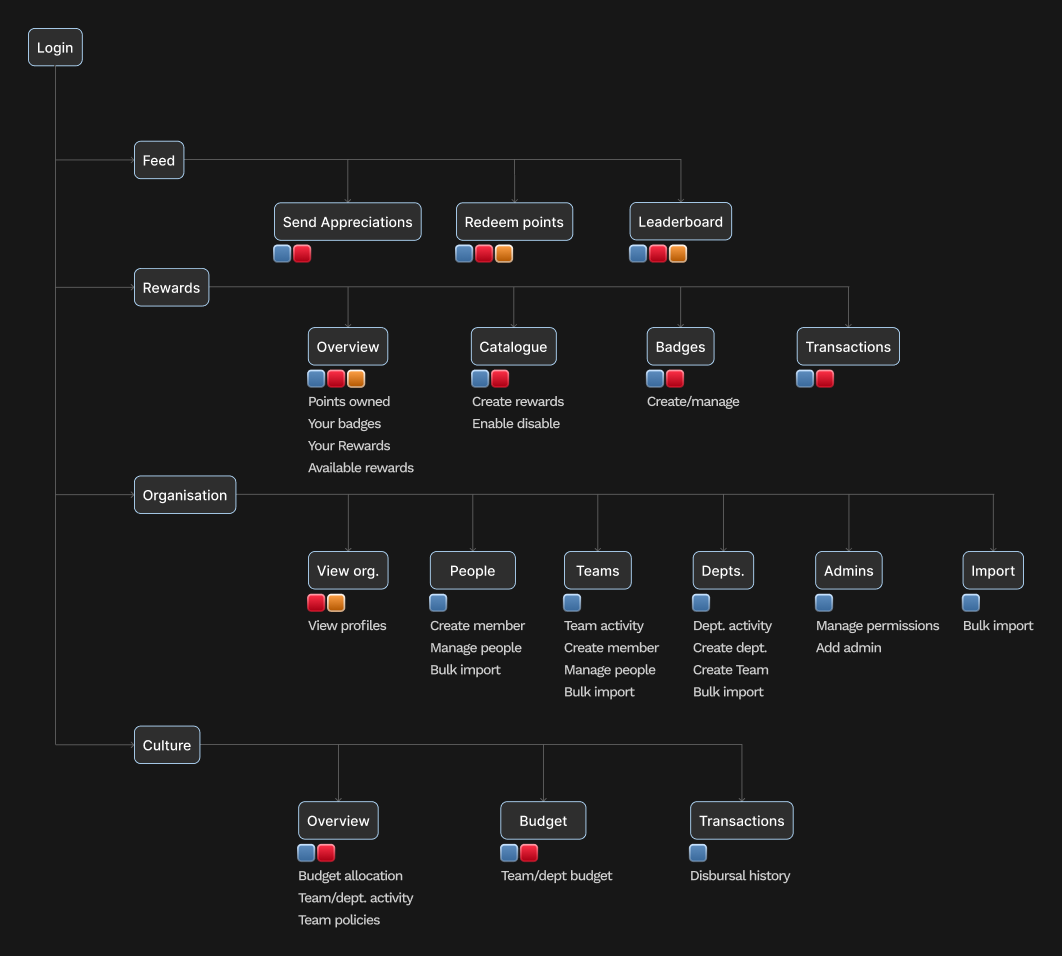
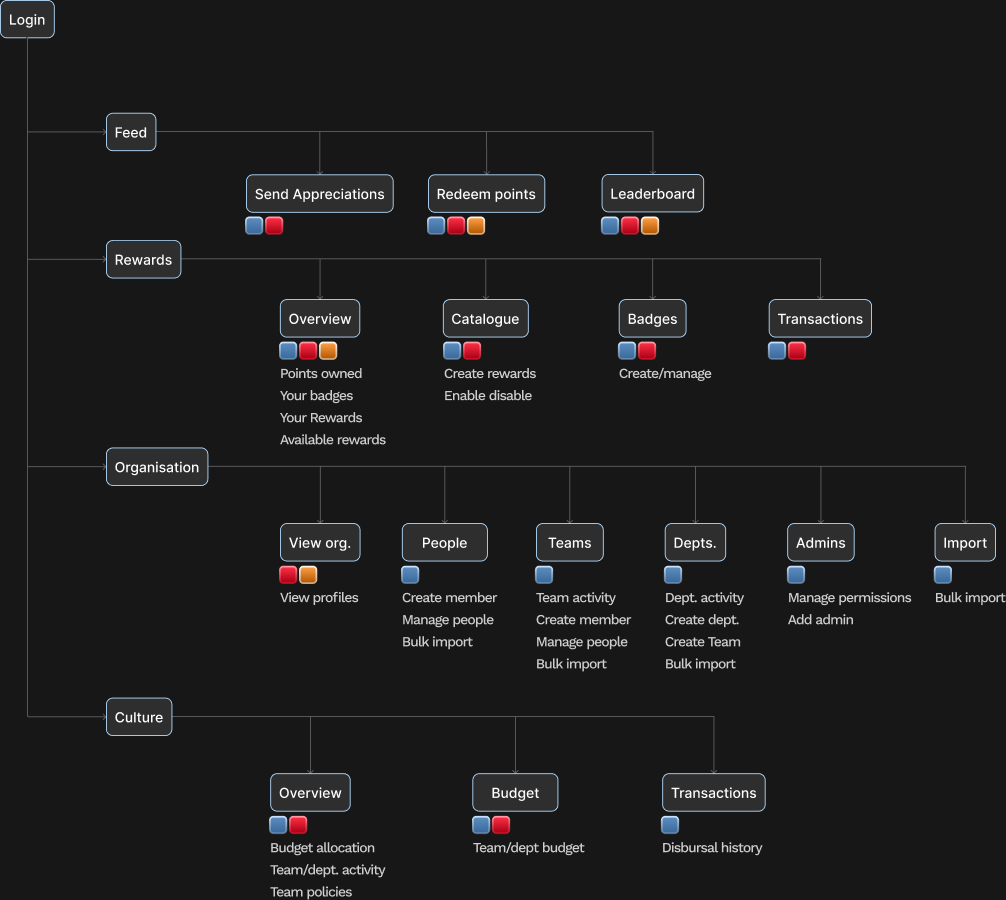
Give every picture the same frame, and stand the cast in a row
Padding is the page's job, not the picture's. Each crop carried 28 pixels of
the slide's own ground, which lands as 14 on one image and 19 on another
because they scale by different amounts to fit one column — so the gap around
every screen was slightly different and none of it agreed with the space
around anything else.

So the crops are tight now, and the breathing room is painted here: a frame
filled with the colour of the slide the picture came from, padded 24px, one
step down from the page's own gutter. Nineteen frames, one padding, and every
image starts and ends exactly where the text does. Nothing bleeds any more —
the cover and the two diagrams were running past the text edge while
everything else lined up, which is the kind of near-miss that reads as a
mistake rather than as emphasis.

The frame earns its keep twice more: inside an iteration it is painted the
same colour as the band, so a rejected screen belongs to the band instead of
sitting on top of it; and the cover and the closing card can each name their
own ground, since the deck used a different one for both.

The cast is four across. Photographs of television actors carry nothing about
the role, which is exactly why the card can afford to be narrow — the picture
only says these are four different people, and the pill and the sentence do
the work. Two by two from 820px of column and one at a time below 620, with
the copy shortened to suit a card a quarter of the width.

diff --git a/components/case/IncentiwiseStory.tsx b/components/case/IncentiwiseStory.tsx
@@ -20,10 +20,14 @@ import { Settle } from '@/components/Settle'
  * cut out of one. The deck offsets, stacks and overlaps deliberately — the
  * login panel with its two reset states down the right, the three appreciation
  * cards running off both edges — and cropping each rectangle out separately
- * would throw that away. So each crop is bounded by everything on the slide
- * that is not the ground, plus an even margin of the ground itself. That is
- * also why these images sit seamlessly inside the iteration bands: the band is
- * painted the same colour the slide used.
+ * would throw that away.
+ *
+ * The crops are tight, and the breathing room around each one is painted here
+ * instead, on a frame filled with the colour that slide used. Padding is the
+ * page's job: a margin baked into the picture lands at a different size on
+ * every image, because they scale by different amounts to fit one column,
+ * whereas a frame gives them all the identical gap in the same unit as the
+ * space around everything else.
  *
  * The writing is new throughout. Only the pictures are the deck's.
  */
@@ -156,25 +160,42 @@ function Iteration({
 
 const SRC = (name: string) => `/images/incentiwise/story/${name}.png`
 
-function Shot({ src, alt, cap }: { src: string; alt: string; cap?: string }) {
+/**
+ * A screen on its frame. `ground` names the slide's own background where it
+ * is not the usual near-black, so the frame and the picture stay one material.
+ */
+function Shot({
+  src,
+  alt,
+  cap,
+  ground,
+}: {
+  src: string
+  alt: string
+  cap?: string
+  ground?: string
+}) {
   return (
     <figure className="shot">
-      <img src={SRC(src)} alt={alt} loading="lazy" />
+      <div className="frame" style={ground ? ({ '--ground': ground } as React.CSSProperties) : undefined}>
+        <img src={SRC(src)} alt={alt} loading="lazy" />
+      </div>
       {cap && <figcaption className="cap">{cap}</figcaption>}
     </figure>
   )
 }
 
 /**
- * A diagram taken whole from the deck, at the full width of the column. Even
- * there it cannot show eleven features across three roles at the size it was
- * drawn, so it carries a link to the file — the one honest answer to a picture
- * of type that has been scaled past reading.
+ * A diagram from the deck. Even across the whole column it cannot show eleven
+ * features by three roles at the size it was drawn, so it carries a link to
+ * the file — the one honest answer to a picture of type scaled past reading.
  */
 function Diagram({ src, alt, cap }: { src: string; alt: string; cap: string }) {
   return (
-    <figure className="shot shot-wide">
-      <img src={SRC(src)} alt={alt} loading="lazy" />
+    <figure className="shot">
+      <div className="frame">
+        <img src={SRC(src)} alt={alt} loading="lazy" />
+      </div>
       <figcaption className="cap">
         {cap}{' '}
         <a href={SRC(src)} target="_blank" rel="noreferrer" className="full">
@@ -205,12 +226,11 @@ export function IncentiwiseStory() {
       </Beat>
 
       <Settle mass="medium">
-        <figure className="cover">
-          <img
-            src={SRC('cover')}
-            alt="The Incentiwise feed, organisation and badges screens, shown in perspective"
-          />
-        </figure>
+        <Shot
+          src="cover"
+          ground="#0b1a24"
+          alt="The Incentiwise feed, organisation and badges screens, shown in perspective"
+        />
       </Settle>
 
       {/* ── Who is on it ───────────────────────────────────────────── */}
@@ -222,24 +242,22 @@ export function IncentiwiseStory() {
             <img src={SRC('p-admin')} alt="" className="face" loading="lazy" />
             <Pill role="admin" />
             <p>
-              Owns the programme. Funds the pool, builds the badges, brings people in, and signs off
-              what the leads ask for.
+              Owns the programme. Funds the pool, builds the badges, and signs off what the leads
+              ask for.
             </p>
           </div>
           <div className="who-card">
             <img src={SRC('p-dept')} alt="" className="face" loading="lazy" />
             <Pill role="lead">Dept. head</Pill>
             <p>
-              Approves budget requests coming up from the leads, and answers for the culture of
-              everything underneath.
+              Approves what the leads ask for, and answers for the culture underneath.
             </p>
           </div>
           <div className="who-card">
             <img src={SRC('p-lead')} alt="" className="face" loading="lazy" />
             <Pill role="lead">Team lead</Pill>
             <p>
-              Recognises their own team against a quarterly budget, and asks for more when it runs
-              dry.
+              Recognises their own team against a quarterly budget. Asks for more when it runs dry.
             </p>
           </div>
           <div className="who-card">
@@ -460,6 +478,7 @@ export function IncentiwiseStory() {
         <p className="say say-mid">One more, using the product itself.</p>
         <Shot
           src="thanks"
+          ground="#222831"
           alt="An appreciation card addressed to Recruiters, tagged patient and supportive, reading thank you for this opportunity, worth one million points"
         />
       </Beat>

diff --git a/app/globals.css b/app/globals.css
@@ -2886,28 +2886,18 @@ html.has-custom-cursor .cursor-zoom-out { cursor: zoom-out; }
 .cs .pil-lead { background: var(--lead); }
 .cs .pil-emp { background: var(--emp); }
 
-/* ── The cover ─────────────────────────────────────────────────────
-   The one picture on the page doing a purely atmospheric job, so it gets the
-   only full-bleed treatment: pulled out to the page's padding on both sides,
-   where every other image sits inside the measure. */
-.cs .cover {
-  margin: 0 calc(var(--s6) * -1);
-  width: calc(100% + var(--s6) * 2);
-}
-
-.cs .cover img {
-  display: block;
-  width: 100%;
-  height: auto;
-}
-
 /* ── The cast ──────────────────────────────────────────────────────
-   Two by two rather than four across. Four abreast turns each person into a
-   column of five wrapped words; a square keeps the portrait large enough to
-   be a face and the sentence long enough to be a sentence. */
+   Four across where the column can hold them, because the four roles are a
+   set and reading them as one row is the fastest way to see that. Two by two
+   below that, and one column on a phone.
+
+   The photographs are the deck's and are stills of television actors, so they
+   carry no information about the role — which is exactly why the card can
+   afford to be narrow. The portrait is a marker that these are four different
+   people, and the pill and the sentence do the work. */
 .cs .cast {
   display: grid;
-  grid-template-columns: repeat(2, minmax(0, 1fr));
+  grid-template-columns: repeat(4, minmax(0, 1fr));
   gap: var(--s4);
   width: 100%;
 }
@@ -3066,40 +3056,46 @@ html.has-custom-cursor .cursor-zoom-out { cursor: zoom-out; }
 }
 
 /* ── Screens ──────────────────────────────────────────────────────
-   Every image here is a whole slide composition, carrying the deck's own
-   ground and its own margin. So there is no plate, no border and no corner
-   mark: the picture already has its frame, and adding another would give it
-   two. The figure paints that same ground behind the image, which does two
-   things — it hides the seam at the rounded corners, and inside an iteration
-   it makes the crop and the band the identical colour, so a rejected screen
-   reads as part of the band rather than as something dropped onto it. */
+   Each image is cropped tight to its artwork and set on a frame painted the
+   colour of the slide it came from. The frame supplies the breathing room, in
+   the same unit as the space around every other element on the page, so all
+   nineteen pictures carry an identical gap however differently they scale.
+
+   Two consequences worth having. Inside an iteration the frame and the band
+   are the same colour, so a rejected screen reads as part of the band rather
+   than as something dropped onto it. And nothing bleeds: every image starts
+   and ends exactly where the text does, which is the only way a column this
+   busy stays quiet. */
 .cs .shot {
-  --ground: #171717;
   margin: 0;
   display: grid;
   gap: var(--s3);
   width: 100%;
 }
 
-.cs .shot img {
+.cs .frame {
+  --ground: #171717;
+  background: var(--ground);
+  /* One step down from the page's own 32px gutter — enough that the picture
+     is clearly inset rather than trimmed, without eating the column. */
+  padding: var(--s5);
+  border-radius: 3px;
+}
+
+.cs .frame img {
   display: block;
   width: 100%;
   height: auto;
-  border-radius: 3px;
-  background: var(--ground);
 }
 
-/* The warm slides, and the one blue-grey slide the deck closes on. */
-.cs .iter .shot {
+/* The warm slides. Set on .frame rather than .shot so an explicit ground
+   passed for one picture still wins. */
+.cs .iter .frame {
   --ground: #332d2d;
 }
 
-.cs .beat-air .shot {
-  --ground: #222831;
-}
-
-/* Screens inside a step are a sequence, spaced by the same measure the page
-   uses between a beat and its neighbour. */
+/* Screens inside a step are a sequence, spaced the way the page spaces a beat
+   from its neighbour. */
 .cs .shots {
   display: grid;
   gap: var(--s7);
@@ -3109,22 +3105,6 @@ html.has-custom-cursor .cursor-zoom-out { cursor: zoom-out; }
 .cs .iter-shots {
   display: grid;
   gap: var(--s5);
-}
-
-/* A diagram is a picture of type, and type shrinks. Give it the full width of
-   the column — past the padding on both sides, like the cover — and it gets
-   back the roughly 8% that the page's own margin was costing it. */
-.cs .shot-wide {
-  margin-inline: calc(var(--s6) * -1);
-  width: calc(100% + var(--s6) * 2);
-}
-
-.cs .shot-wide img {
-  border-radius: 0;
-}
-
-.cs .shot-wide .cap {
-  padding-inline: var(--s6);
 }
 
 .cs .cap {
@@ -3171,6 +3151,14 @@ html.has-custom-cursor .cursor-zoom-out { cursor: zoom-out; }
   .cs .head {
     flex-direction: column;
     gap: var(--s3);
+  }
+}
+
+/* Tablet-ish: four abreast stops being a row of cards and becomes four
+   columns of wrapped words. */
+@container cs (max-width: 820px) {
+  .cs .cast {
+    grid-template-columns: repeat(2, minmax(0, 1fr));
   }
 }
 
